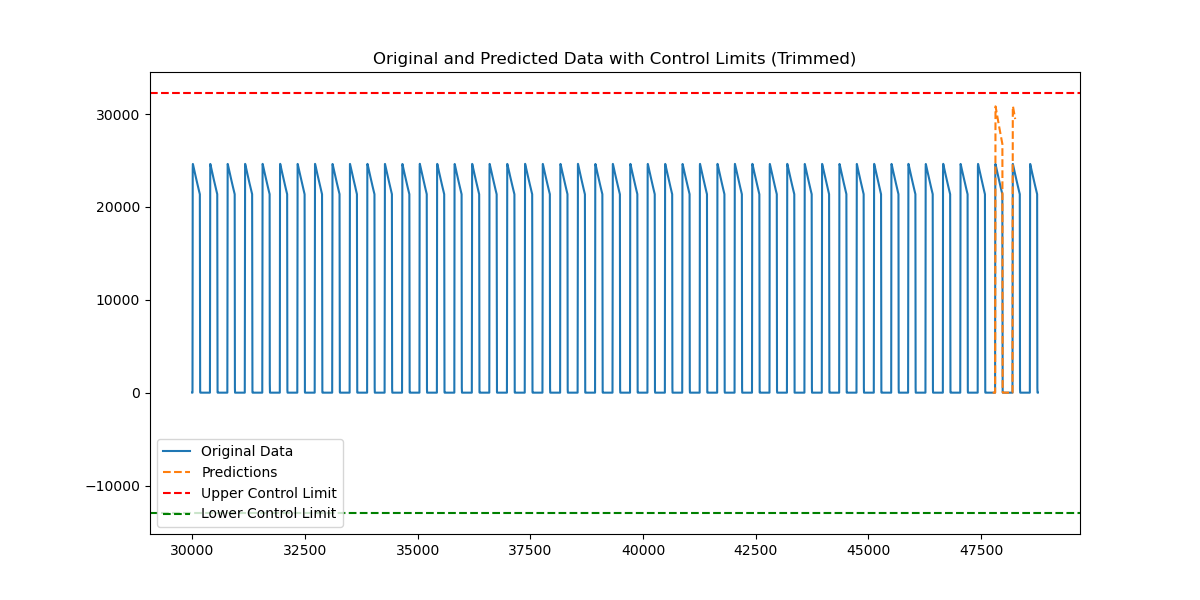
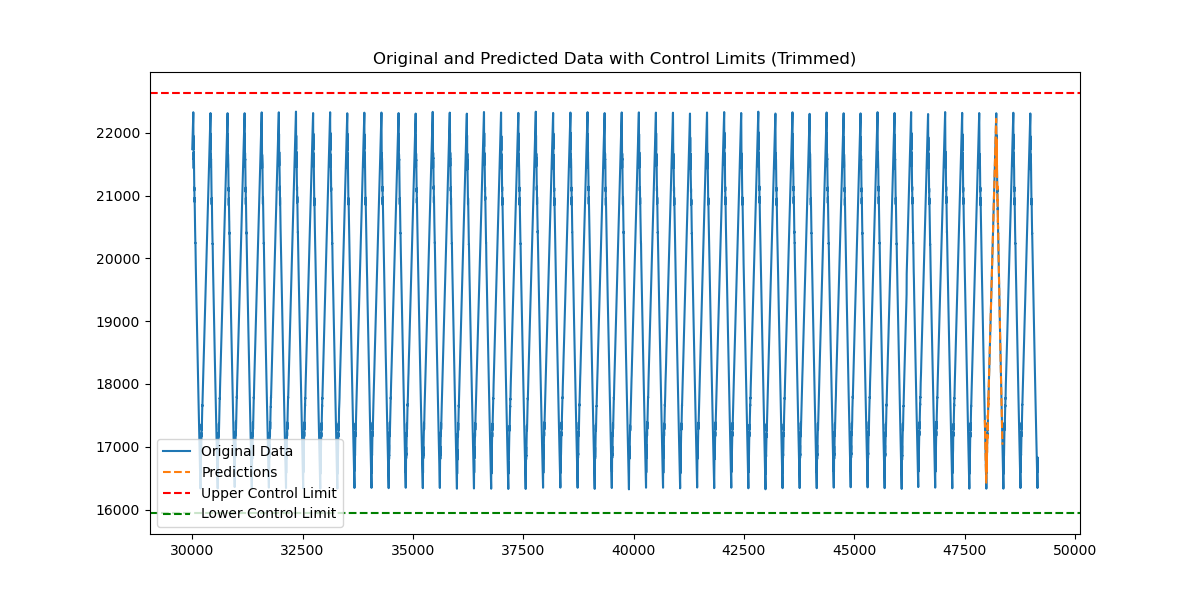
更新了两种残差修正的代码，一个是EMMA，一个滚动窗口

diff --git a/AR-Burg-WindowsSize.py b/AR-Burg-WindowsSize.py
@@ -4,6 +4,7 @@ import pandas as pd
 from scipy.stats import f
 from sklearn.preprocessing import StandardScaler
 
+# 读取数据
 def read_data(file_path):
     print("Reading data from file...")
     data = pd.read_csv(file_path, header=None).squeeze()
@@ -12,15 +13,18 @@ def read_data(file_path):
     print(f"Data statistics:\n{data.describe()}")
     return data
 
+# 一阶差分
 def differencing(data, lag=1):
     return data.diff(periods=lag).dropna()
 
+# 多次差分
 def multiple_differencing(data, max_lag=2):
     differenced_data = data
     for lag in range(1, max_lag + 1):
         differenced_data = differencing(differenced_data, lag)
     return differenced_data
 
+# Burg方法计算AR系数
 def burg_method(y, max_order):
     print("Executing Burg's method...")
     N = len(y)
@@ -56,6 +60,7 @@ def burg_method(y, max_order):
 
     return a, reflection_coeffs, variances
 
+# 计算BIC准则
 def bic_criterion(variances, N):
     print("Calculating BIC values...")
     bic_values = np.zeros(len(variances))
@@ -66,6 +71,7 @@ def bic_criterion(variances, N):
     print(f"Best order selected: {best_order} with BIC = {bic_values[best_order]}")
     return best_order, bic_values
 
+# 计算AIC准则
 def aic_criterion(variances, N):
     print("Calculating AIC values...")
     aic_values = np.zeros(len(variances))
@@ -76,6 +82,7 @@ def aic_criterion(variances, N):
     print(f"Best order selected: {best_order} with AIC = {aic_values[best_order]}")
     return best_order, aic_values
 
+# 计算Shewart控制限
 def shewart_control_limits(data, control_limit_multiplier=2):
     mean = data.mean()
     std_dev = data.std()
@@ -84,6 +91,7 @@ def shewart_control_limits(data, control_limit_multiplier=2):
     print(f"Mean: {mean}, Std Dev: {std_dev}, Upper Limit: {upper_limit}, Lower Limit: {lower_limit}")
     return upper_limit, lower_limit
 
+# 进行F检验
 def f_test(data1, data2):
     var1 = np.var(data1)
     var2 = np.var(data2)
@@ -91,6 +99,7 @@ def f_test(data1, data2):
     p_value = 1 - f.cdf(f_stat, len(data1) - 1, len(data2) - 1)
     return f_stat, p_value
 
+# 绘制原始数据和预测数据
 def plot_series(original, predictions, upper_limit, lower_limit, filename):
     print("Plotting data...")
     plt.figure(figsize=(12, 6))
@@ -103,8 +112,9 @@ def plot_series(original, predictions, upper_limit, lower_limit, filename):
     plt.savefig(filename)
     plt.show()
 
+# 主函数
 def main():
-    file_path = 'Flow_meter_data.txt'  # 更新为你的文件路径
+    file_path = 'Level_meter_data.txt'  # 更新为你的文件路径
     data = read_data(file_path)
     
     # 标准化处理
@@ -119,7 +129,7 @@ def main():
     print("Differenced data. First 10 values:")
     print(differenced_data[:10])
     
-    max_order = 2 # 使用较小的阶数以保持趋势的正确性
+    max_order = 6 # 使用较小的阶数以保持趋势的正确性
     a, reflection_coeffs, variances = burg_method(differenced_data.values, max_order)
     
     criterion = input("Enter the criterion to use (AIC/BIC): ").strip().upper()
@@ -132,8 +142,8 @@ def main():
     print("Model coefficients:", a[best_order, :best_order])
 
     model_coeffs = a[best_order, :best_order]
-    start_point = -1000  # 尝试调整预测的起始点
-    prediction_length = 500  # 预测长度为500
+    start_point = -1200  # 尝试调整预测的起始点
+    prediction_length = 400  # 预测长度为400
     predictions = np.zeros(prediction_length)
     extended_data = np.pad(differenced_data.values, (best_order, 0), 'constant', constant_values=(0,))
     for i in range(prediction_length):
@@ -155,13 +165,20 @@ def main():
     predictions = np.r_[last_value, predictions].cumsum()[1:]
     predictions = scaler.inverse_transform(predictions.reshape(-1, 1)).flatten()
 
-    # 使用EWMA修正残差
+    # 使用窗口大小为20的滚动平均修正残差
     residuals = data[start_point:start_point + prediction_length] - predictions[:len(data[start_point:start_point + prediction_length])]
-    ewma_residuals = residuals.ewm(span=50).mean()
-    predictions[:len(data[start_point:start_point + prediction_length])] += ewma_residuals
+    rolling_residuals = residuals.rolling(window=5).mean().dropna()
+    predictions[:len(rolling_residuals)] += rolling_residuals
+
+    # 获取数据集中的最大值和最小值
+    data_min = data.min()
+    data_max = data.max()
+
+    # 将预测值限定在数据集中的最小值和最大值之间
+    predictions = np.clip(predictions, data_min, data_max)
 
     print(f"Standardized Data Series Statistics:\n{pd.Series(standardized_data).describe()}")
-
+    # 计算控制极限
     ucl, lcl = shewart_control_limits(pd.Series(data), control_limit_multiplier=2)  # 基于原始数据计算控制极限
     forecast_index = np.arange(len(data) + start_point, len(data) + start_point + prediction_length)
     forecast_series = pd.Series(predictions, index=forecast_index)

diff --git a/AR-Burg-EMMA.py b/AR-Burg-EMMA.py
@@ -3,7 +3,7 @@ import matplotlib.pyplot as plt
 import pandas as pd
 from scipy.stats import f
 from sklearn.preprocessing import StandardScaler
-
+# 使用EMMA算法修正预测
 def read_data(file_path):
     print("Reading data from file...")
     data = pd.read_csv(file_path, header=None).squeeze()
@@ -11,6 +11,15 @@ def read_data(file_path):
     print(data.head(10))
     print(f"Data statistics:\n{data.describe()}")
     return data
+
+def differencing(data, lag=1):
+    return data.diff(periods=lag).dropna()
+
+def multiple_differencing(data, max_lag=2):
+    differenced_data = data
+    for lag in range(1, max_lag + 1):
+        differenced_data = differencing(differenced_data, lag)
+    return differenced_data
 
 def burg_method(y, max_order):
     print("Executing Burg's method...")
@@ -57,6 +66,16 @@ def bic_criterion(variances, N):
     print(f"Best order selected: {best_order} with BIC = {bic_values[best_order]}")
     return best_order, bic_values
 
+def aic_criterion(variances, N):
+    print("Calculating AIC values...")
+    aic_values = np.zeros(len(variances))
+    for p in range(1, len(variances)):
+        aic_values[p] = N * np.log(variances[p]) + 2 * p
+        print(f"Order {p}: AIC = {aic_values[p]}")
+    best_order = np.argmin(aic_values[1:]) + 1
+    print(f"Best order selected: {best_order} with AIC = {aic_values[best_order]}")
+    return best_order, aic_values
+
 def shewart_control_limits(data, control_limit_multiplier=2):
     mean = data.mean()
     std_dev = data.std()
@@ -85,30 +104,38 @@ def plot_series(original, predictions, upper_limit, lower_limit, filename):
     plt.show()
 
 def main():
-    file_path = 'Level_meter_data.txt'  # 更新为你的文件路径
+    file_path = 'Flow_meter_data.txt'  # 更新为你的文件路径
     data = read_data(file_path)
     
+    # 标准化处理
     scaler = StandardScaler()
     standardized_data = scaler.fit_transform(data.values.reshape(-1, 1)).flatten()
     print("Standardized data. First 10 values:")
     print(standardized_data[:10])
     print(f"Standardized Data Statistics:\nMean: {np.mean(standardized_data)}, Std Dev: {np.std(standardized_data)}, Min: {np.min(standardized_data)}, Max: {np.max(standardized_data)}")
     
-    differenced_data = np.diff(standardized_data)
+    # 多次差分处理
+    differenced_data = multiple_differencing(pd.Series(standardized_data), max_lag=1)
     print("Differenced data. First 10 values:")
     print(differenced_data[:10])
     
-    max_order = 8
-    a, reflection_coeffs, variances = burg_method(differenced_data, max_order)
-    best_order, bic_values = bic_criterion(variances, len(differenced_data))
+    max_order = 4 # 使用较小的阶数以保持趋势的正确性
+    a, reflection_coeffs, variances = burg_method(differenced_data.values, max_order)
+    
+    criterion = input("Enter the criterion to use (AIC/BIC): ").strip().upper()
+    if criterion == 'AIC':
+        best_order, criterion_values = aic_criterion(variances, len(differenced_data))
+    else:
+        best_order, criterion_values = bic_criterion(variances, len(differenced_data))
+    
     print(f"Best AR model order: {best_order}")
     print("Model coefficients:", a[best_order, :best_order])
 
     model_coeffs = a[best_order, :best_order]
-    start_point = -1000  # 从倒数第1000个数据点开始预测
-    prediction_length = 400  # 预测长度为500
+    start_point = -1000  # 尝试调整预测的起始点
+    prediction_length = 500  # 预测长度为500
     predictions = np.zeros(prediction_length)
-    extended_data = np.pad(differenced_data, (best_order, 0), 'constant', constant_values=(0,))
+    extended_data = np.pad(differenced_data.values, (best_order, 0), 'constant', constant_values=(0,))
     for i in range(prediction_length):
         start_index = start_point + i - best_order
         if start_index < -len(extended_data):
@@ -127,6 +154,14 @@ def main():
     last_value = standardized_data[start_point - 1]
     predictions = np.r_[last_value, predictions].cumsum()[1:]
     predictions = scaler.inverse_transform(predictions.reshape(-1, 1)).flatten()
+
+    # 使用EWMA修正残差
+    residuals = data[start_point:start_point + prediction_length] - predictions[:len(data[start_point:start_point + prediction_length])]
+    ewma_residuals = residuals.ewm(span=50).mean()
+    predictions[:len(data[start_point:start_point + prediction_length])] += ewma_residuals
+
+    # Clamp the predictions within the specified range
+    predictions = np.clip(predictions, 0, 25000)
 
     print(f"Standardized Data Series Statistics:\n{pd.Series(standardized_data).describe()}")
 
